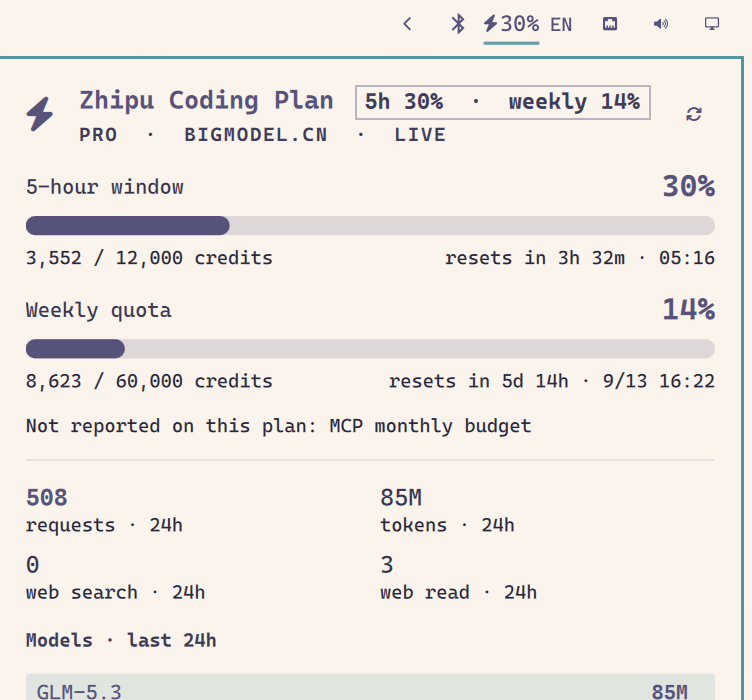
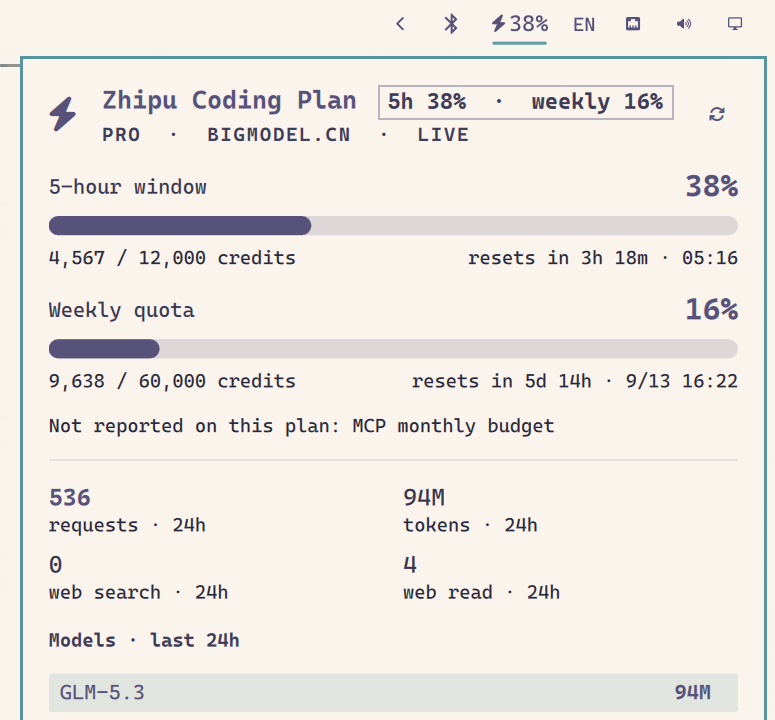
Refresh preview and fix README
New preview from the current build (standard slot spacing, absolute
reset times in meters); embed it at the top of the README, correct the
Python requirement to 3.10+ (match/case), and spell out the full
collector path in the key-setup examples.

diff --git a/README.md b/README.md
@@ -4,6 +4,8 @@ Zhipu GLM Coding Plan usage as one glyph on the Omarchy bar and one panel
 behind it — the 5-hour window, the weekly quota, and the monthly MCP tool
 budget, for accounts on **open.bigmodel.cn** (default) or **api.z.ai**.
 
+![Zhipu Coding Usage — bar widget and panel](preview.png)
+
 ## What it shows
 
 - **5-hour window** — percent used, credits used / budget, reset countdown
@@ -40,7 +42,7 @@ omarchy bar move io.github.aniakea.zhipu-coding-usage --section center
 ## Requirements
 
 - Omarchy 4.x with `omarchy-shell` (Quickshell).
-- Python 3.9+ (ships with Arch; standard library only — no pip packages).
+- Python 3.10+ (ships with Arch; standard library only — no pip packages).
 - A Zhipu / z.ai Coding Plan API key (see below).
 - `notify-send` (libnotify) for notifications — optional; without it the
   panel works and notifications are skipped.
@@ -56,11 +58,13 @@ Nothing else is read at runtime — no third-party credential stores. Two
 one-time setup commands write the config file (mode 0600):
 
 ```sh
+PLUGIN_BIN=~/.config/omarchy/plugins/io.github.aniakea.zhipu-coding-usage/bin/zhipu-coding-usage
+
 # Set a key directly (omit the value to be prompted silently):
-~/.config/omarchy/plugins/io.github.aniakea.zhipu-coding-usage/bin/zhipu-coding-usage --set-key <KEY>
+$PLUGIN_BIN --set-key <KEY>
 
 # Or migrate the key you already gave OpenCode, once and explicitly:
-…/bin/zhipu-coding-usage --import-key
+$PLUGIN_BIN --import-key
 ```
 
 `--import-key` copies from `~/.local/share/opencode/auth.json` into the
